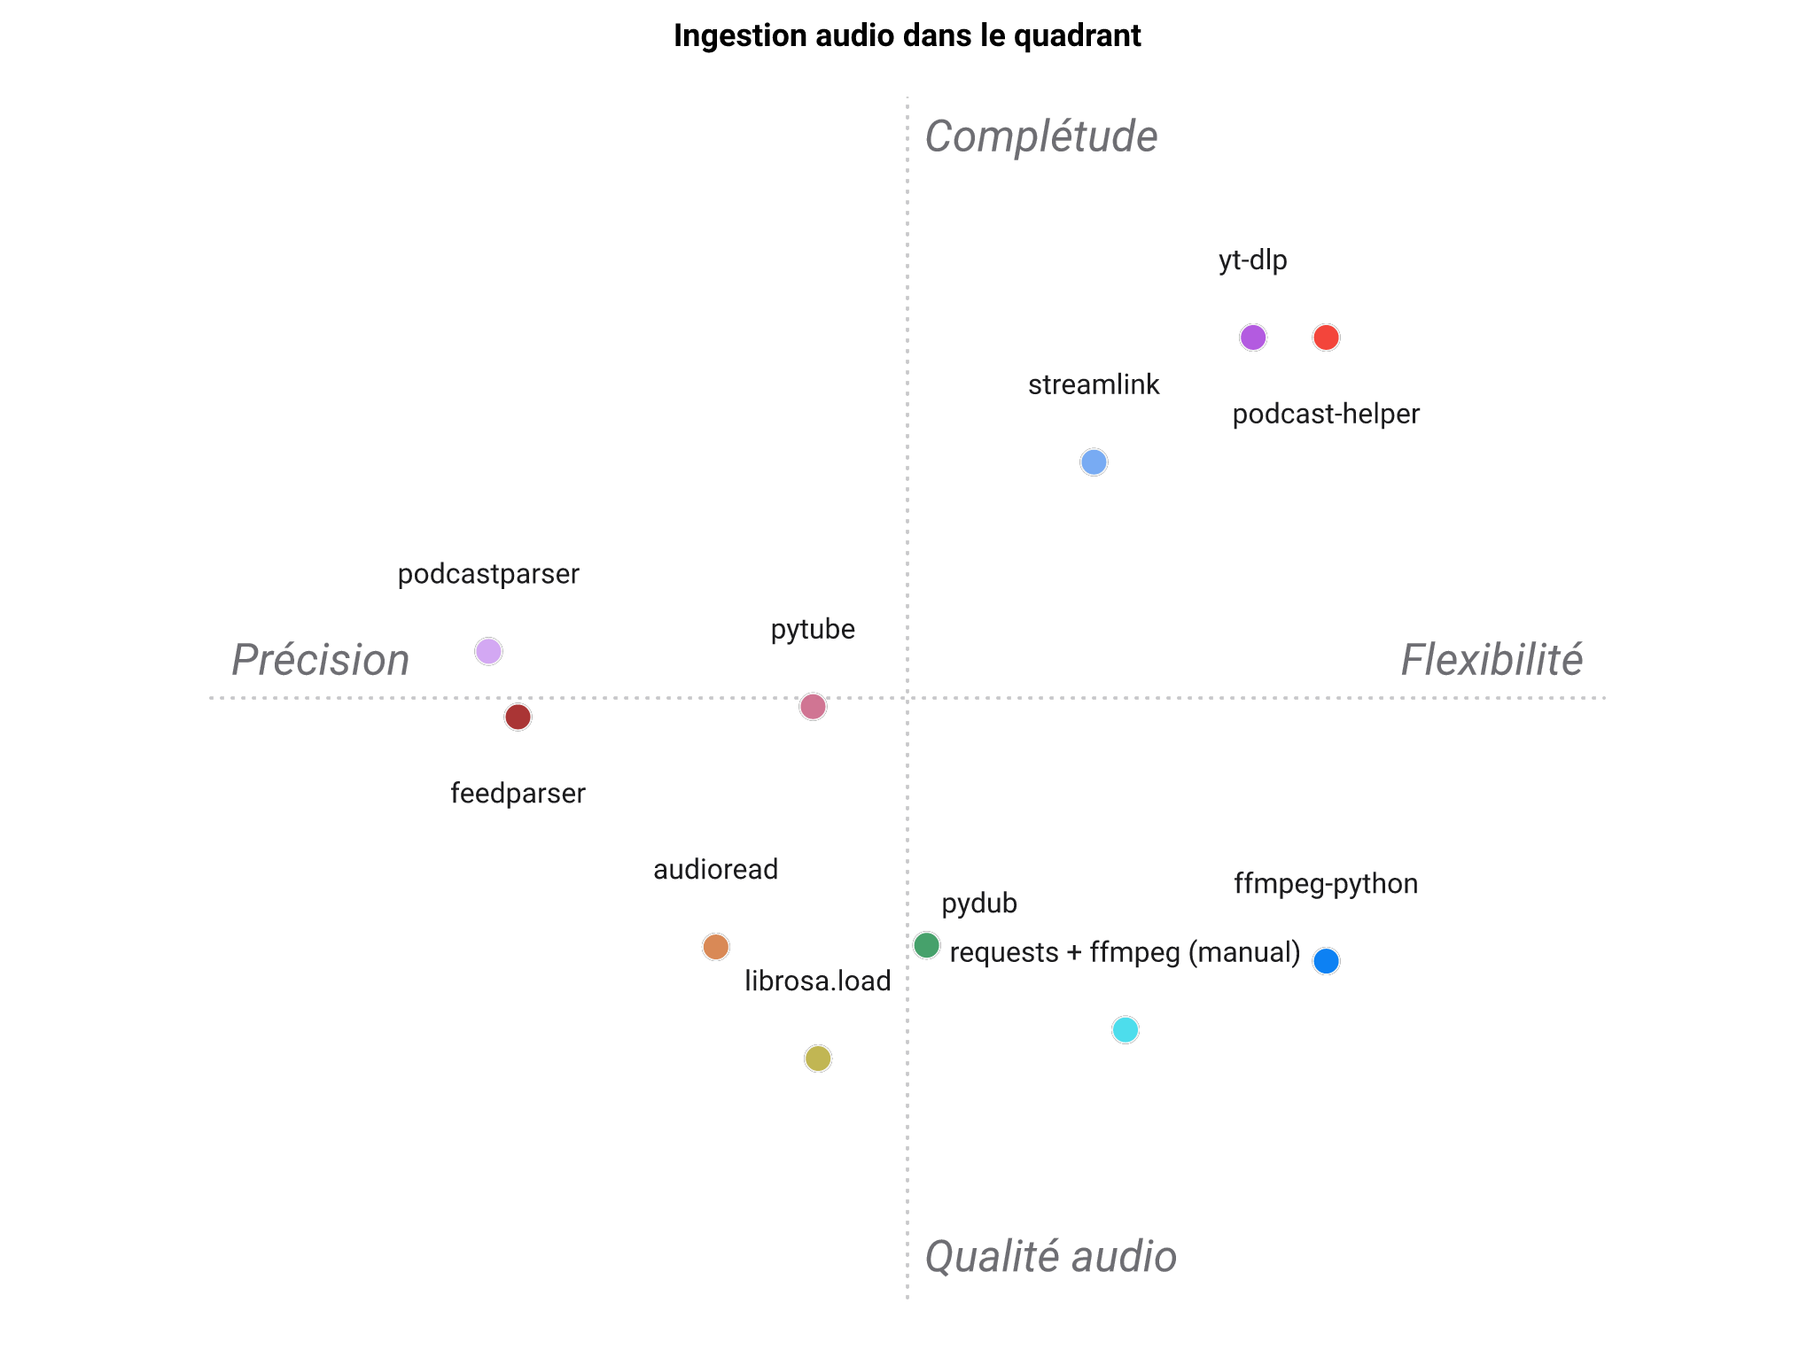
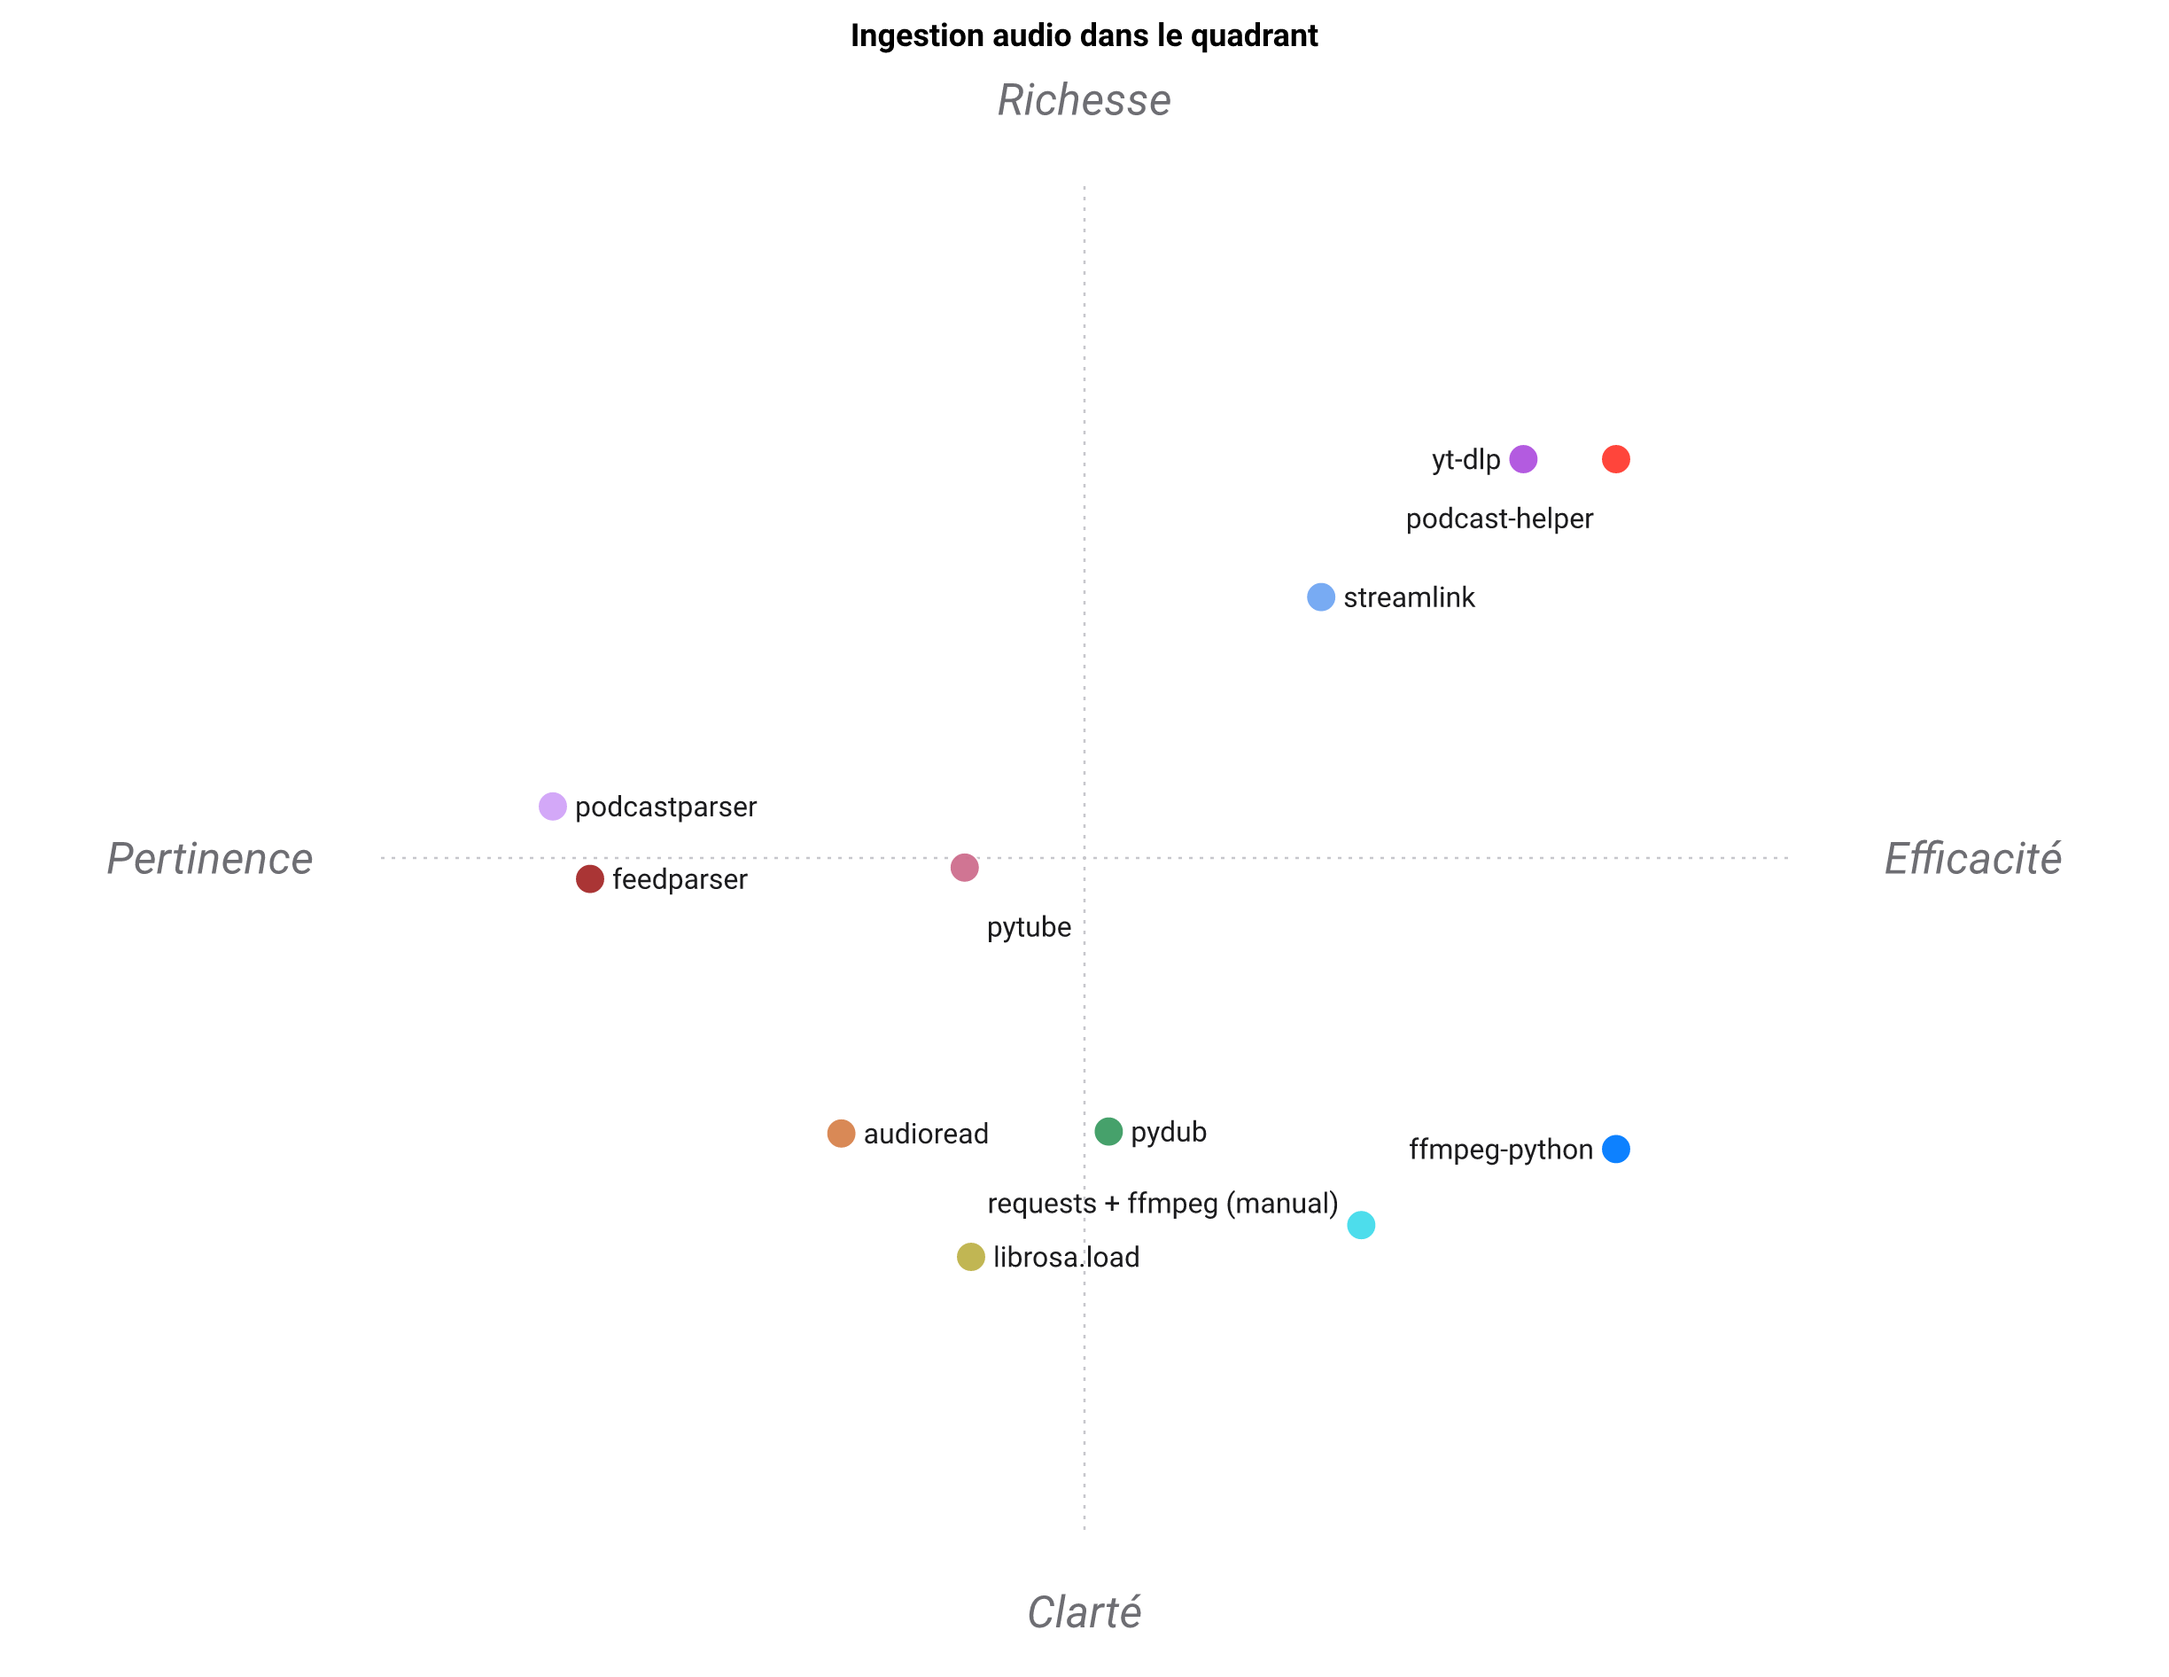
docs: regenerate LANDSCAPE/PAYSAGE positioning figures
Rerun via gen_landscape.py against the current standpoint (Vega retired,
SVG+resvg_py rasterisation pipeline).

diff --git a/PAYSAGE.md b/PAYSAGE.md
@@ -38,7 +38,7 @@ Représentation 2D du tableau ci-dessus.
 
 ![Carte de positionnement](https://raw.githubusercontent.com/warith-harchaoui/podcast-helper/main/assets/paysage.png)
 
-La carte est un résumé en 2D des 8 critères : à lire comme une forme, pas comme un classement. « podcast-helper » se situe dans le coin en haut à droite. Les axes se lisent **Horizontal — Précision ↔ Flexibilité** et **Vertical — Qualité audio ↔ Complétude**.
+La carte est un résumé en 2D des 8 critères : à lire comme une forme, pas comme un classement. « podcast-helper » se situe dans le coin en haut à droite. Les axes se lisent **Horizontal — Pertinence ↔ Efficacité** et **Vertical — Clarté ↔ Richesse**.
 <!-- FIGURE:END -->
 
 ## Positionnement

diff --git a/LANDSCAPE.md b/LANDSCAPE.md
@@ -37,7 +37,7 @@ penalised — the score just reflects fit to *this* niche.
 
 ![Positioning map](https://raw.githubusercontent.com/warith-harchaoui/podcast-helper/main/assets/landscape.png)
 
-The map is a 2-D summary of the eight criteria, so read it as a shape, not a scoreboard. `podcast-helper` is at the top-right corner. The axes read **Horizontal — Efficiency ↔ Versatility** and **Vertical — Precision ↔ Comprehensive**.
+The map is a 2-D summary of the eight criteria, so read it as a shape, not a scoreboard. `podcast-helper` is at the top-right corner. The axes read **Horizontal — Adaptable ↔ Efficient** and **Vertical — Precise ↔ Versatile**.
 <!-- FIGURE:END -->
 
 ## Positioning
